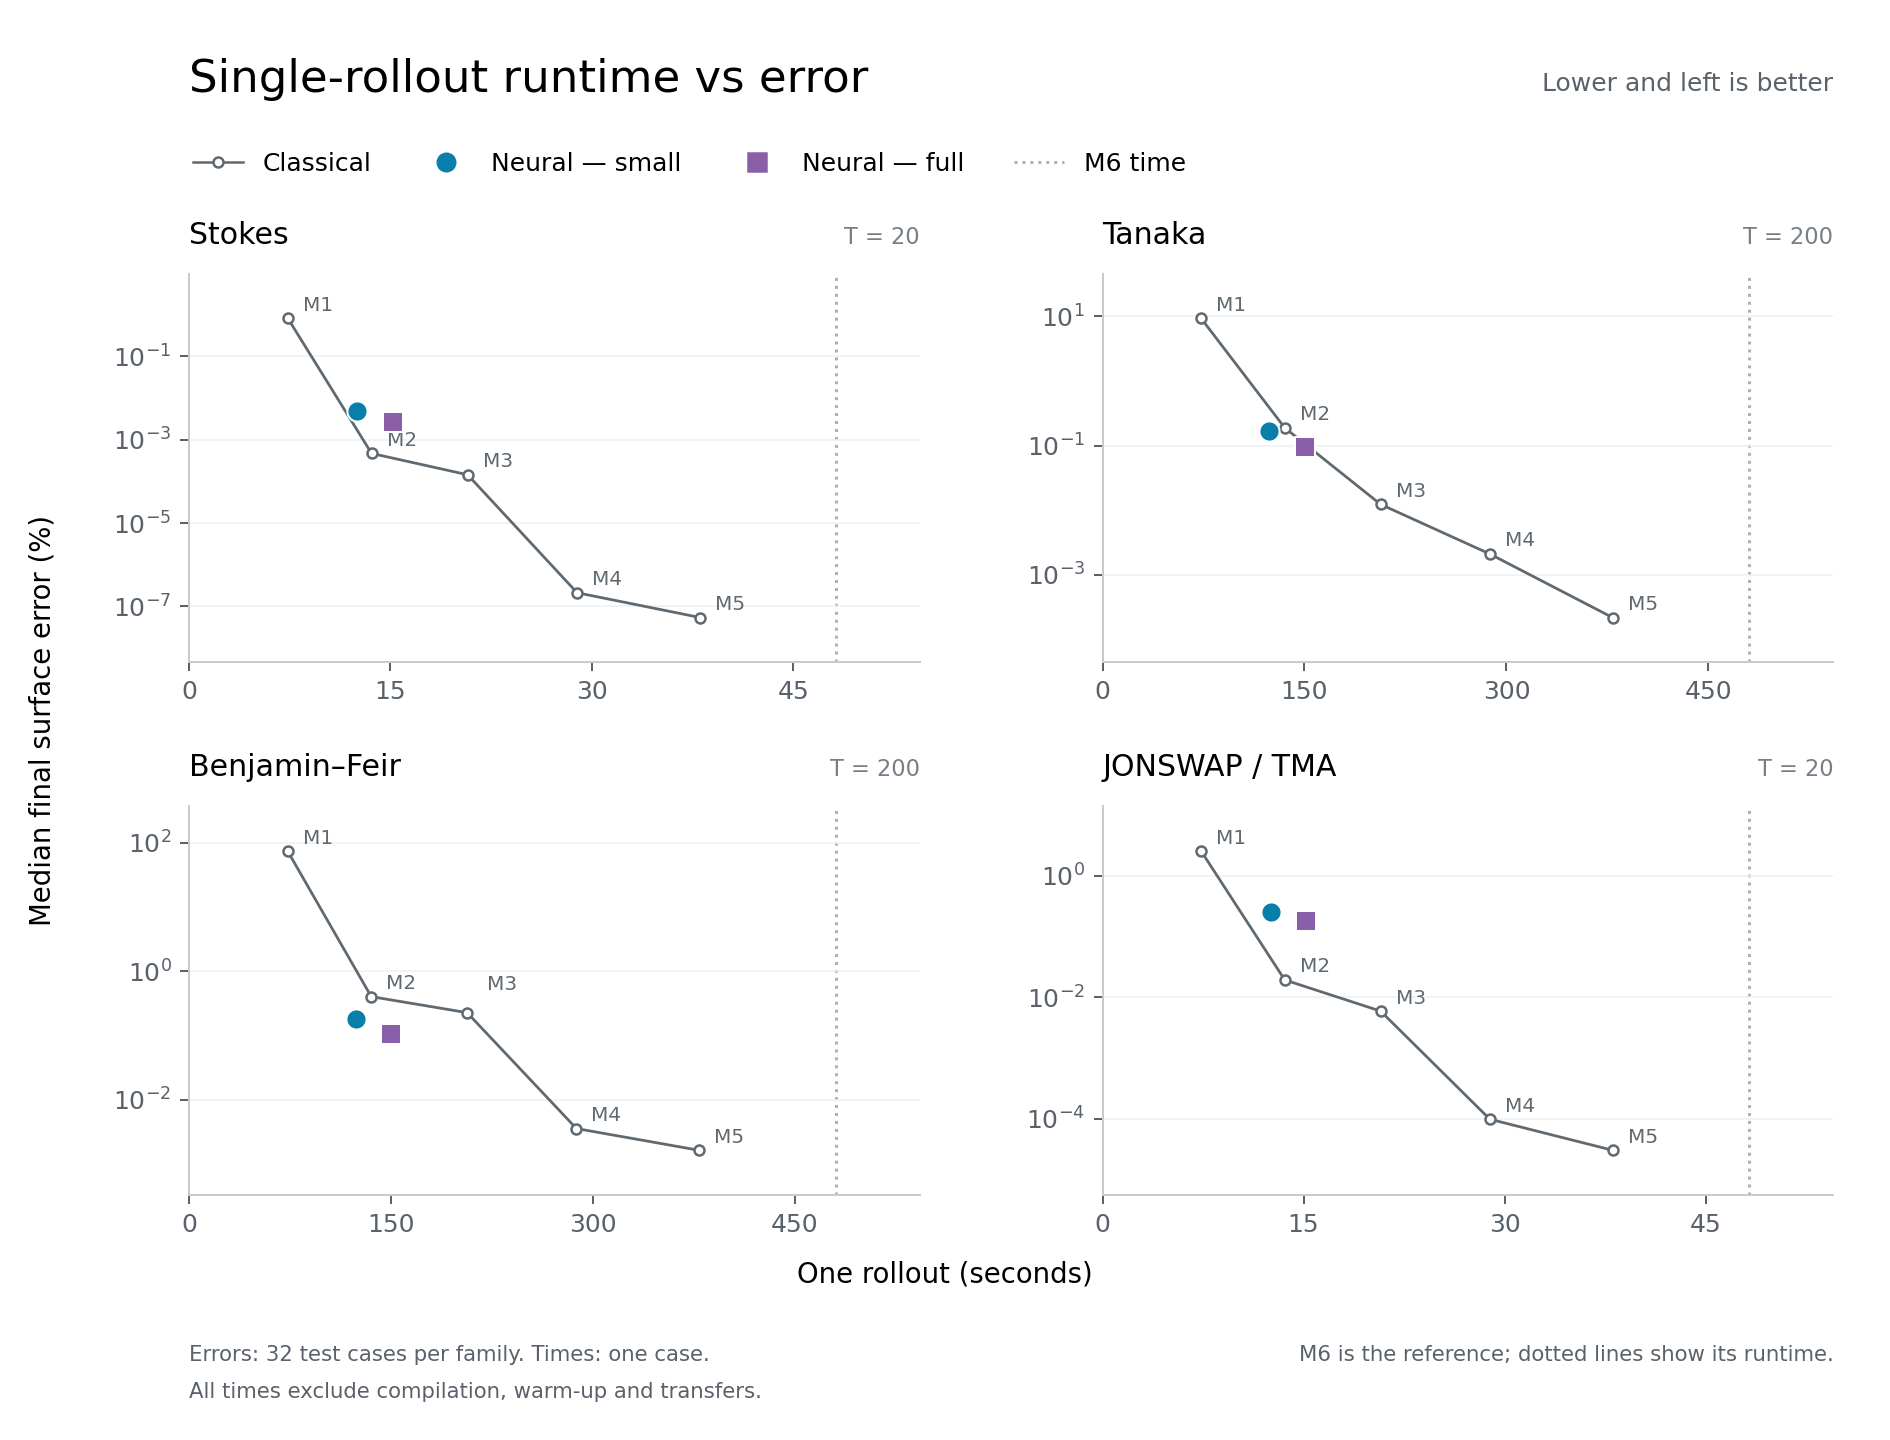
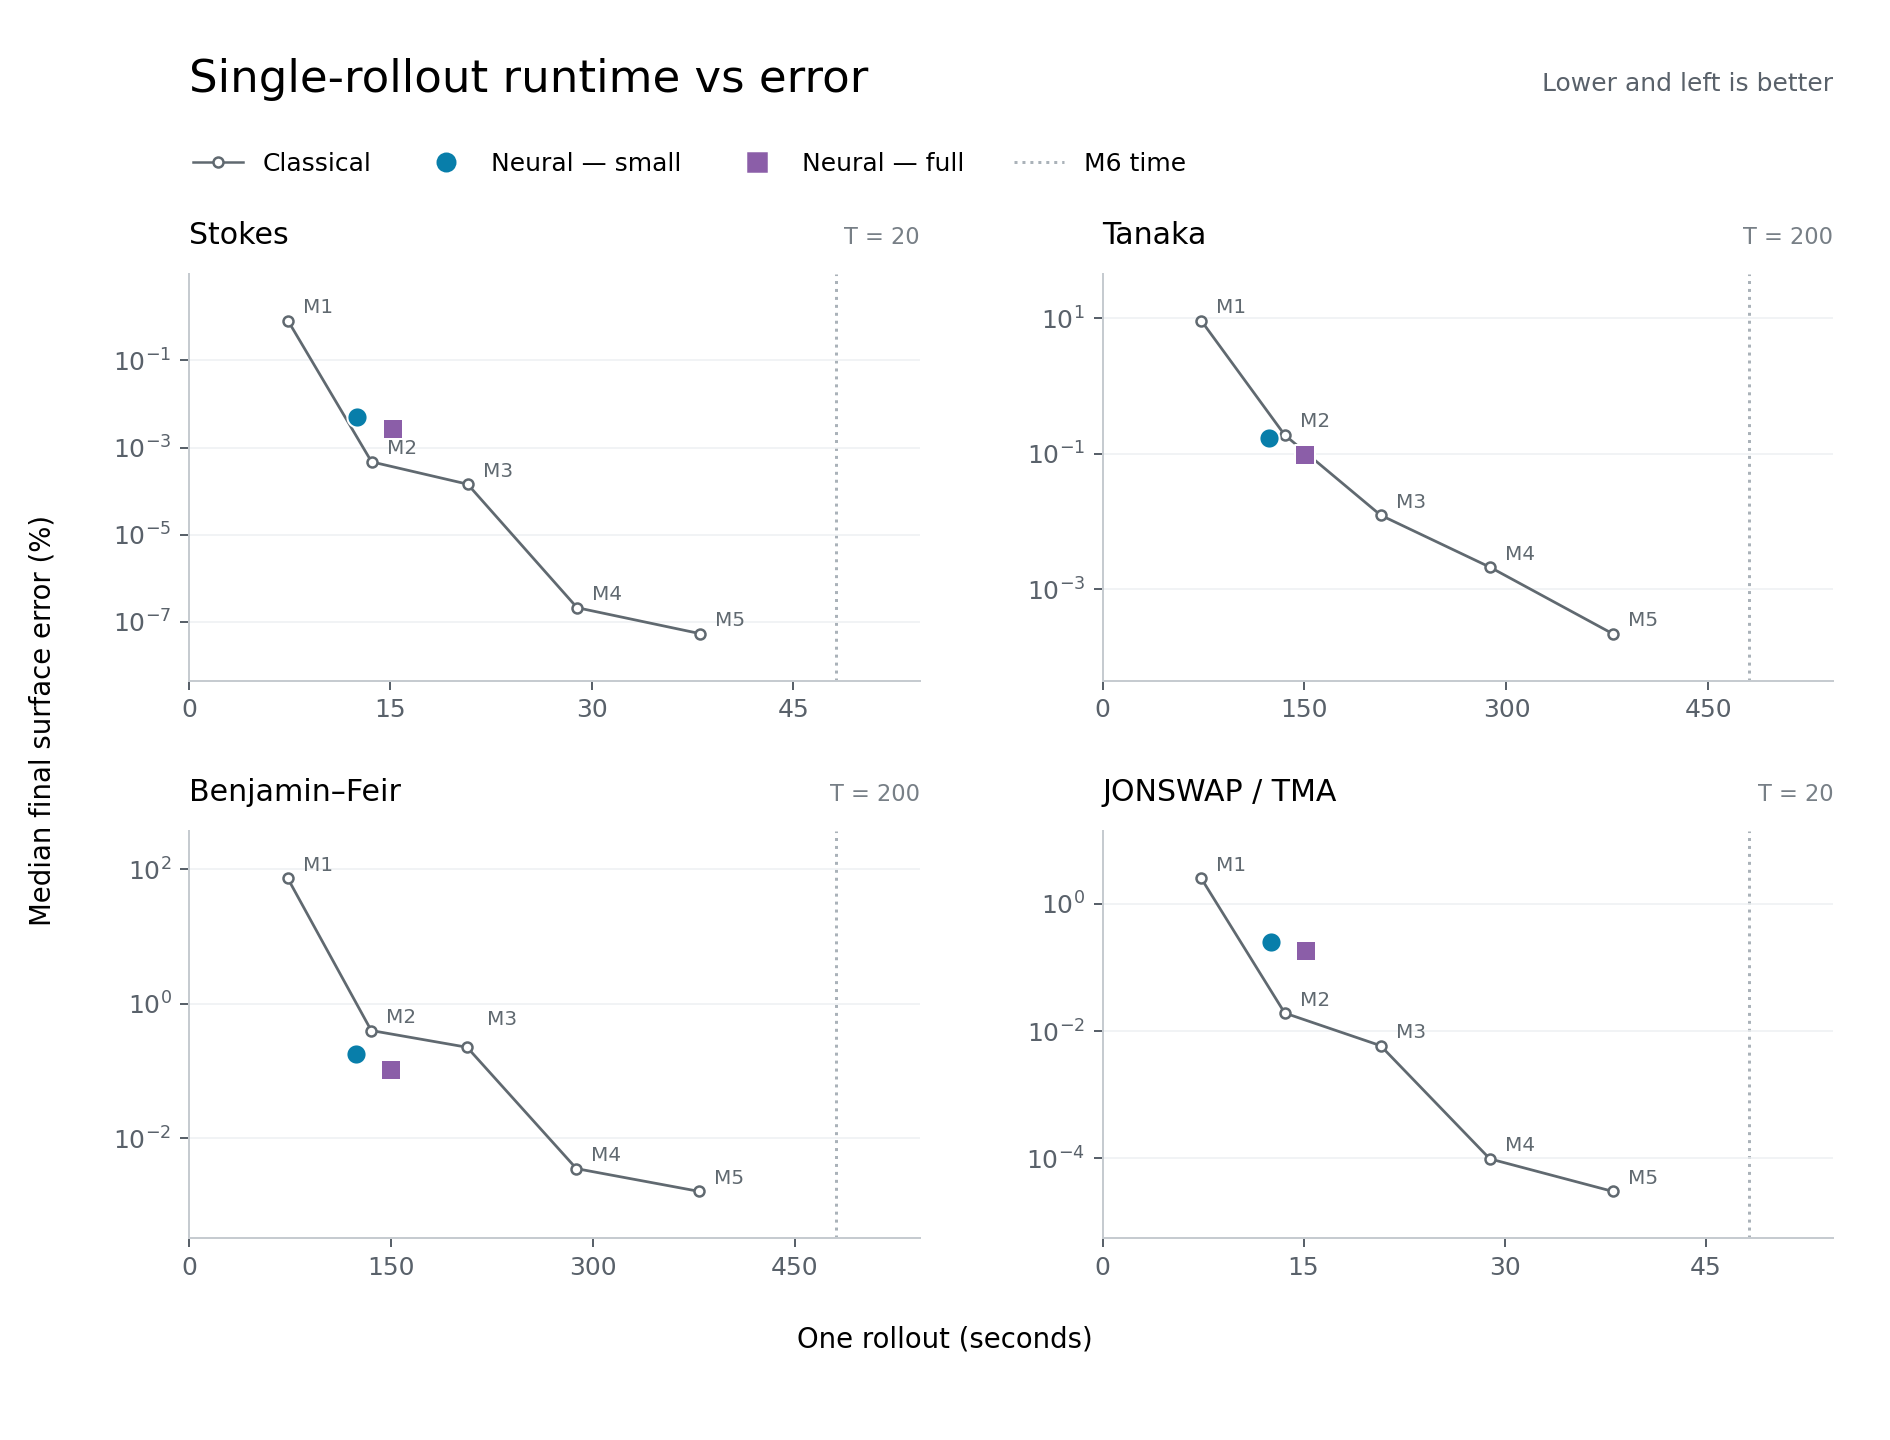
Drop footnote comments from rollout runtime figure
Generated with [Devin](https://devin.ai)

diff --git a/paper-plots/plot_neural_advantage.py b/paper-plots/plot_neural_advantage.py
@@ -40,7 +40,7 @@ if __name__ == "__main__":
         "xtick.color": "#59616a", "ytick.color": "#59616a",
     })
     fig, axes = plt.subplots(2, 2, figsize=(10.5, 8))
-    fig.subplots_adjust(left=0.10, right=0.97, bottom=0.17, top=0.81, hspace=0.37, wspace=0.25)
+    fig.subplots_adjust(left=0.10, right=0.97, bottom=0.14, top=0.81, hspace=0.37, wspace=0.25)
     for ax, (family, title) in zip(axes.flat, FAMILIES, strict=True):
         with np.load(ROOT / "outputs/cs_order_sweep_20260923" / f"{family}.npz") as data:
             selected = np.argsort(data["orders"])
@@ -93,15 +93,8 @@ if __name__ == "__main__":
         Line2D([], [], color="#aab2b9", ls=":", lw=1.2, label="M6 time"),
     ], loc="upper left", bbox_to_anchor=(0.09, 0.91), ncols=4, frameon=False, fontsize=10)
     xlabel = "Time per step (ms)" if per_step else "One rollout (seconds)" if warm else "32 rollouts together (seconds)"
-    fig.supxlabel(xlabel, y=0.105, fontsize=11)
+    fig.supxlabel(xlabel, y=0.06, fontsize=11)
     fig.supylabel("Median final surface error (%)", x=0.015, y=0.50, fontsize=11)
-    fig.text(0.10, 0.055, "Errors: 32 test cases per family. Times: one case." if warm else "Times and errors: 32 test cases per family.", fontsize=8.5, color="#59616a")
-    fig.text(0.97, 0.055, "M6 is the reference; dotted lines show its runtime.", ha="right", fontsize=8.5, color="#59616a")
-    note = ("All times exclude compilation, warm-up and transfers." if warm
-            else "Neural times include compilation and transfers. Classical times do not.")
-    if per_step:
-        note += " Timing uses a short rollout; errors use the full horizons above."
-    fig.text(0.10, 0.029, note, fontsize=8.5, color="#59616a")
     OUT.mkdir(exist_ok=True)
     for extension in ("png", "pdf"):
         name = "11-single-rollout-warm" if warm else "10-neural-vs-classical"
